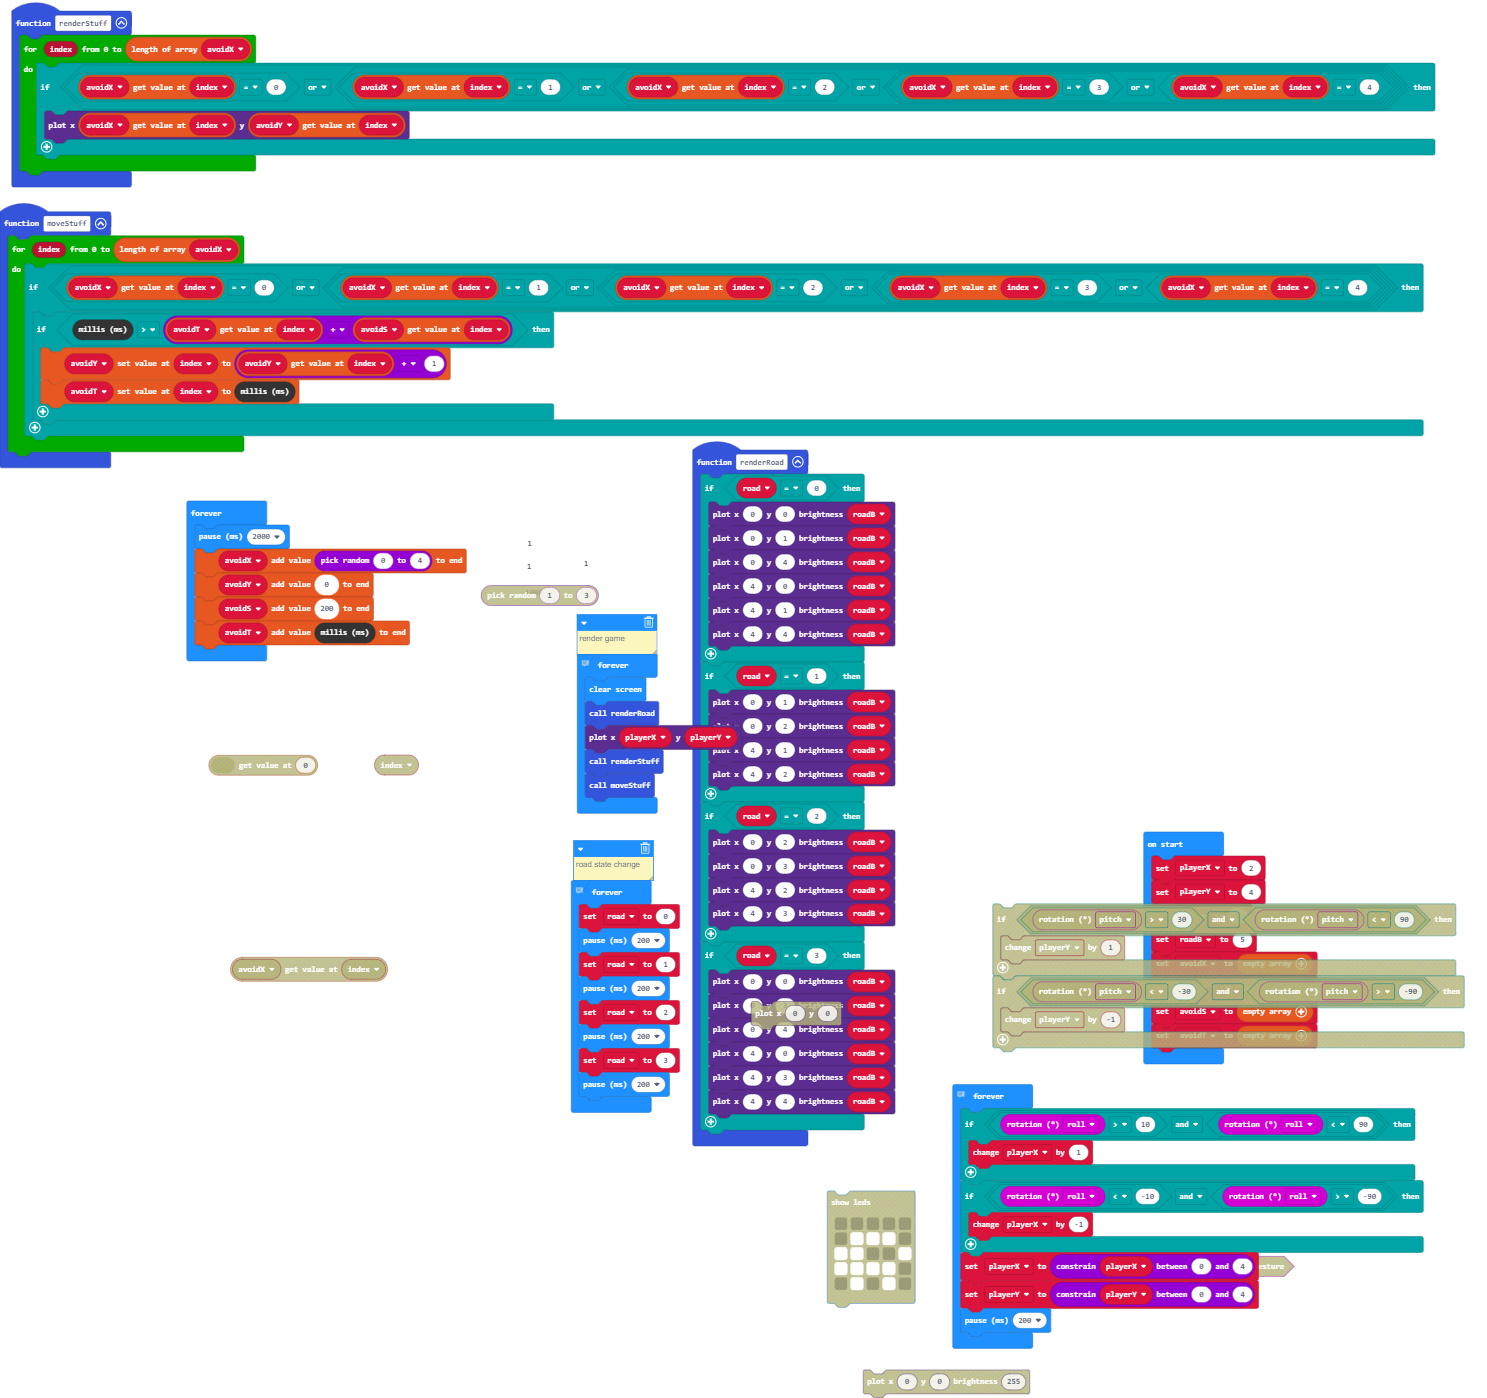
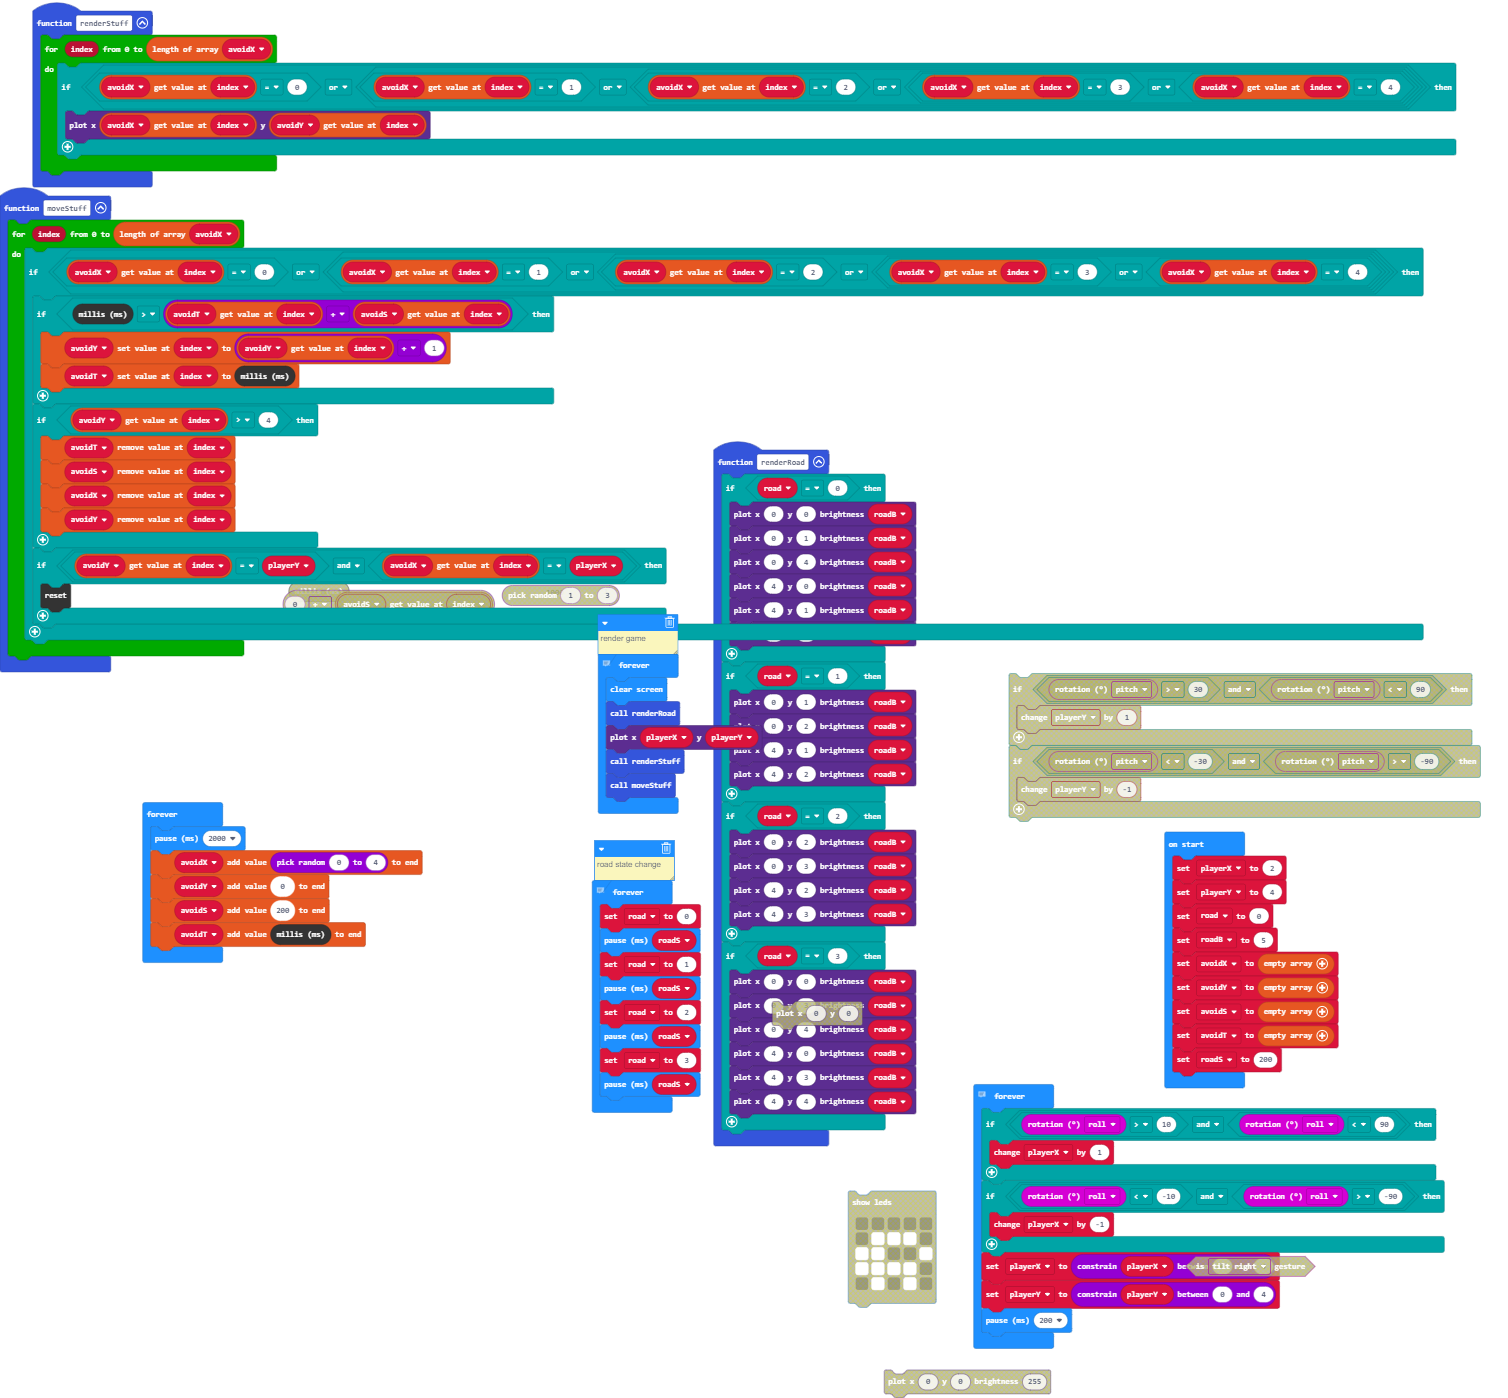
Update main.blocks, main.ts

diff --git a/main.ts b/main.ts
@@ -5,6 +5,15 @@ function moveStuff () {
                 avoidY[index] = avoidY[index] + 1
                 avoidT[index] = control.millis()
             }
+            if (avoidY[index] > 4) {
+                avoidT.removeAt(index)
+                avoidS.removeAt(index)
+                avoidX.removeAt(index)
+                avoidY.removeAt(index)
+            }
+            if (avoidY[index] == playerY && avoidX[index] == playerX) {
+                control.reset()
+            }
         }
     }
 }
@@ -51,21 +60,17 @@ let avoidY: number[] = []
 let avoidX: number[] = []
 let roadB = 0
 let road = 0
-let playerX = 2
-let playerY = 4
+let playerY = 0
+let playerX = 0
+playerX = 2
+playerY = 4
 road = 0
 roadB = 5
 avoidX = []
 avoidY = []
 avoidS = []
 avoidT = []
-basic.forever(function () {
-    basic.pause(2000)
-    avoidX.push(randint(0, 4))
-    avoidY.push(0)
-    avoidS.push(200)
-    avoidT.push(control.millis())
-})
+let roadS = 200
 // render game
 basic.forever(function () {
     basic.clearScreen()
@@ -74,16 +79,23 @@ basic.forever(function () {
     renderStuff()
     moveStuff()
 })
+basic.forever(function () {
+    basic.pause(2000)
+    avoidX.push(randint(0, 4))
+    avoidY.push(0)
+    avoidS.push(200)
+    avoidT.push(control.millis())
+})
 // road state change
 basic.forever(function () {
     road = 0
-    basic.pause(200)
+    basic.pause(roadS)
     road = 1
-    basic.pause(200)
+    basic.pause(roadS)
     road = 2
-    basic.pause(200)
+    basic.pause(roadS)
     road = 3
-    basic.pause(200)
+    basic.pause(roadS)
 })
 // Tilt Loop
 basic.forever(function () {
